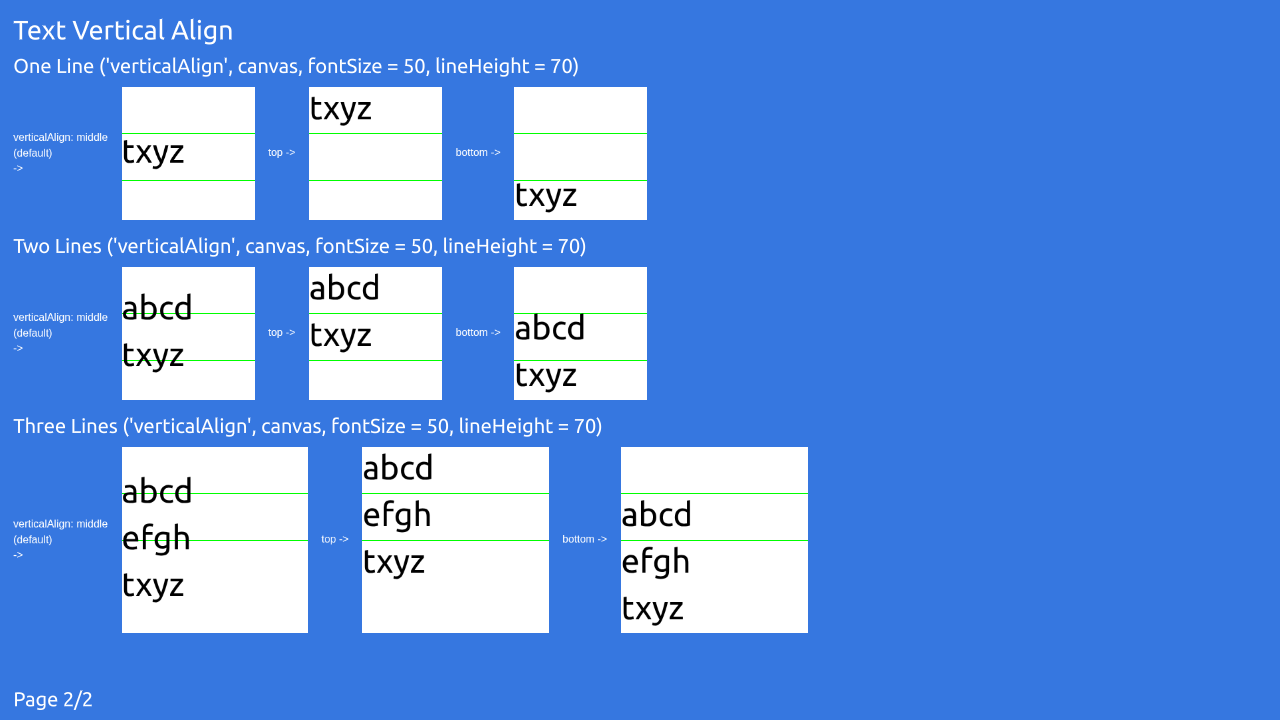
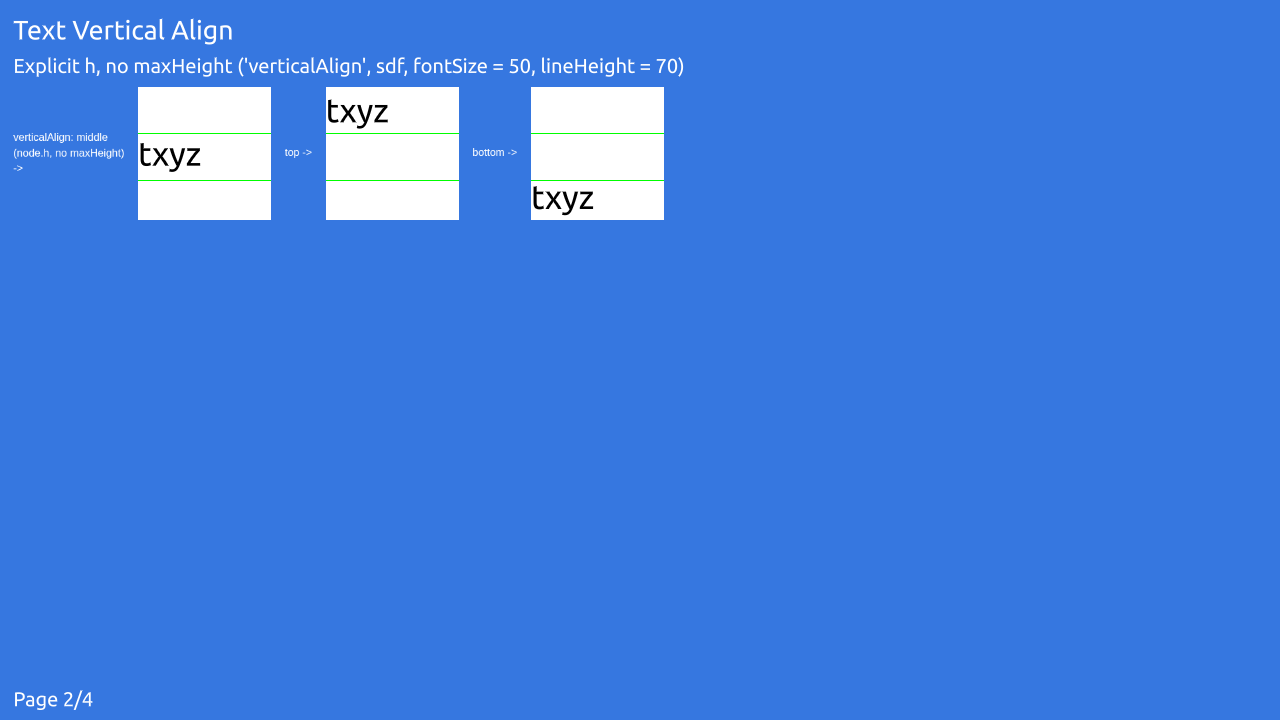
feat(text): verticalAlign works without maxHeight (flex-friendly) (#29)
* feat(text): verticalAlign without requiring maxHeight

verticalAlign previously required maxHeight to be set — useless when a
flex parent (or the user) grows the text node's `h` beyond the intrinsic
text height. Switch the alignment math to compare against the intrinsic
text height (`_renderInfo.height`), using `maxHeight` if set and falling
back to the node's own `h` otherwise.

This also fixes a subtle bug in the original formula: `maxHeight - h`
was wrong when `h` had been modified post-load (e.g., by flex), because
`h` no longer equaled intrinsic height. The new formula uses
`intrinsicH` explicitly.

Adds a VRT row ("Explicit h, no maxHeight") that creates a text node,
awaits load, then sets `node.h = 200` to exercise the new path.

* add vrt updates

---------

Changed region(s): [[0.0, 0.3361, 0.6562, 0.8861], [0.0, 0.0611, 0.5312, 0.3056]]

diff --git a/examples/tests/text-vertical-align.ts b/examples/tests/text-vertical-align.ts
@@ -7,6 +7,7 @@ import type { ExampleSettings } from '../common/ExampleSettings.js';
 import { paginateTestRows, type TestRow } from '../common/paginateTestRows.js';
 import { PageContainer } from '../common/PageContainer.js';
 import { constructTestRow } from '../common/constructTestRow.js';
+import { waitForLoadedDimensions } from '../common/utils.js';
 
 export async function automation(settings: ExampleSettings) {
   // Snapshot all the pages
@@ -199,6 +200,43 @@ function generateVerticalAlignTest(
             ),
           ],
         );
+      },
+    },
+    {
+      title: `Explicit h, no maxHeight ('verticalAlign', ${textRenderer}, fontSize = 50, lineHeight = 70)`,
+      content: async (rowNode) => {
+        const baseProps = {
+          ...NODE_PROPS,
+          text: 'txyz',
+          textRendererOverride: textRenderer,
+          forceLoad: true,
+        } satisfies Partial<ITextNodeProps>;
+
+        const makeBoxedTextNode = async (
+          verticalAlign: 'top' | 'middle' | 'bottom',
+        ) => {
+          const node = renderer.createTextNode({
+            ...baseProps,
+            verticalAlign,
+            parent: rowNode,
+          });
+          await waitForLoadedDimensions(node);
+          node.h = CONTAINER_SIZE;
+          return node;
+        };
+
+        const middleNode = await makeBoxedTextNode('middle');
+        const topNode = await makeBoxedTextNode('top');
+        const bottomNode = await makeBoxedTextNode('bottom');
+
+        return await constructTestRow({ renderer, rowNode }, [
+          'verticalAlign: middle\n(node.h, no maxHeight)\n->',
+          getSquare(renderer, middleNode),
+          'top ->',
+          getSquare(renderer, topNode),
+          'bottom ->',
+          getSquare(renderer, bottomNode),
+        ]);
       },
     },
   ] satisfies TestRow[];

diff --git a/src/core/CoreTextNode.ts b/src/core/CoreTextNode.ts
@@ -149,11 +149,14 @@ export class CoreTextNode extends CoreNode implements CoreTextNodeProps {
       }
     }
 
-    if (hasMaxHeight === true) {
+    const intrinsicH = this._renderInfo.height;
+    const boxH = hasMaxHeight === true ? maxHeight : h;
+    const slackY = boxH - intrinsicH;
+    if (slackY > 0) {
       if (verticalAlign === 'bottom') {
-        containY = maxHeight - h;
+        containY = slackY;
       } else if (verticalAlign === 'middle') {
-        containY = (maxHeight - h) * 0.5;
+        containY = slackY * 0.5;
       }
     }
 

diff --git a/src/core/text-rendering/TextRenderer.ts b/src/core/text-rendering/TextRenderer.ts
@@ -231,10 +231,13 @@ export interface TrProps extends TrFontProps {
    */
   maxLines: number;
   /**
-   * Vertical alignment of the text block within `maxHeight`.
+   * Vertical alignment of the text block within its containing box.
    *
    * @remarks
-   * Activates when `maxHeight > 0`. Composes with `textBaselineMode`
+   * The containing box is `maxHeight` if set, otherwise the node's
+   * own `h` (which a flex parent or the user may have grown beyond
+   * the intrinsic text height). Activates whenever the box is taller
+   * than the intrinsic text height. Composes with `textBaselineMode`
    * (per-line anchor). CSS line-box semantics — `'top'` leaves
    * half-leading above the first line's cap-top; `'bottom'` leaves
    * half-leading below the last line's descender.